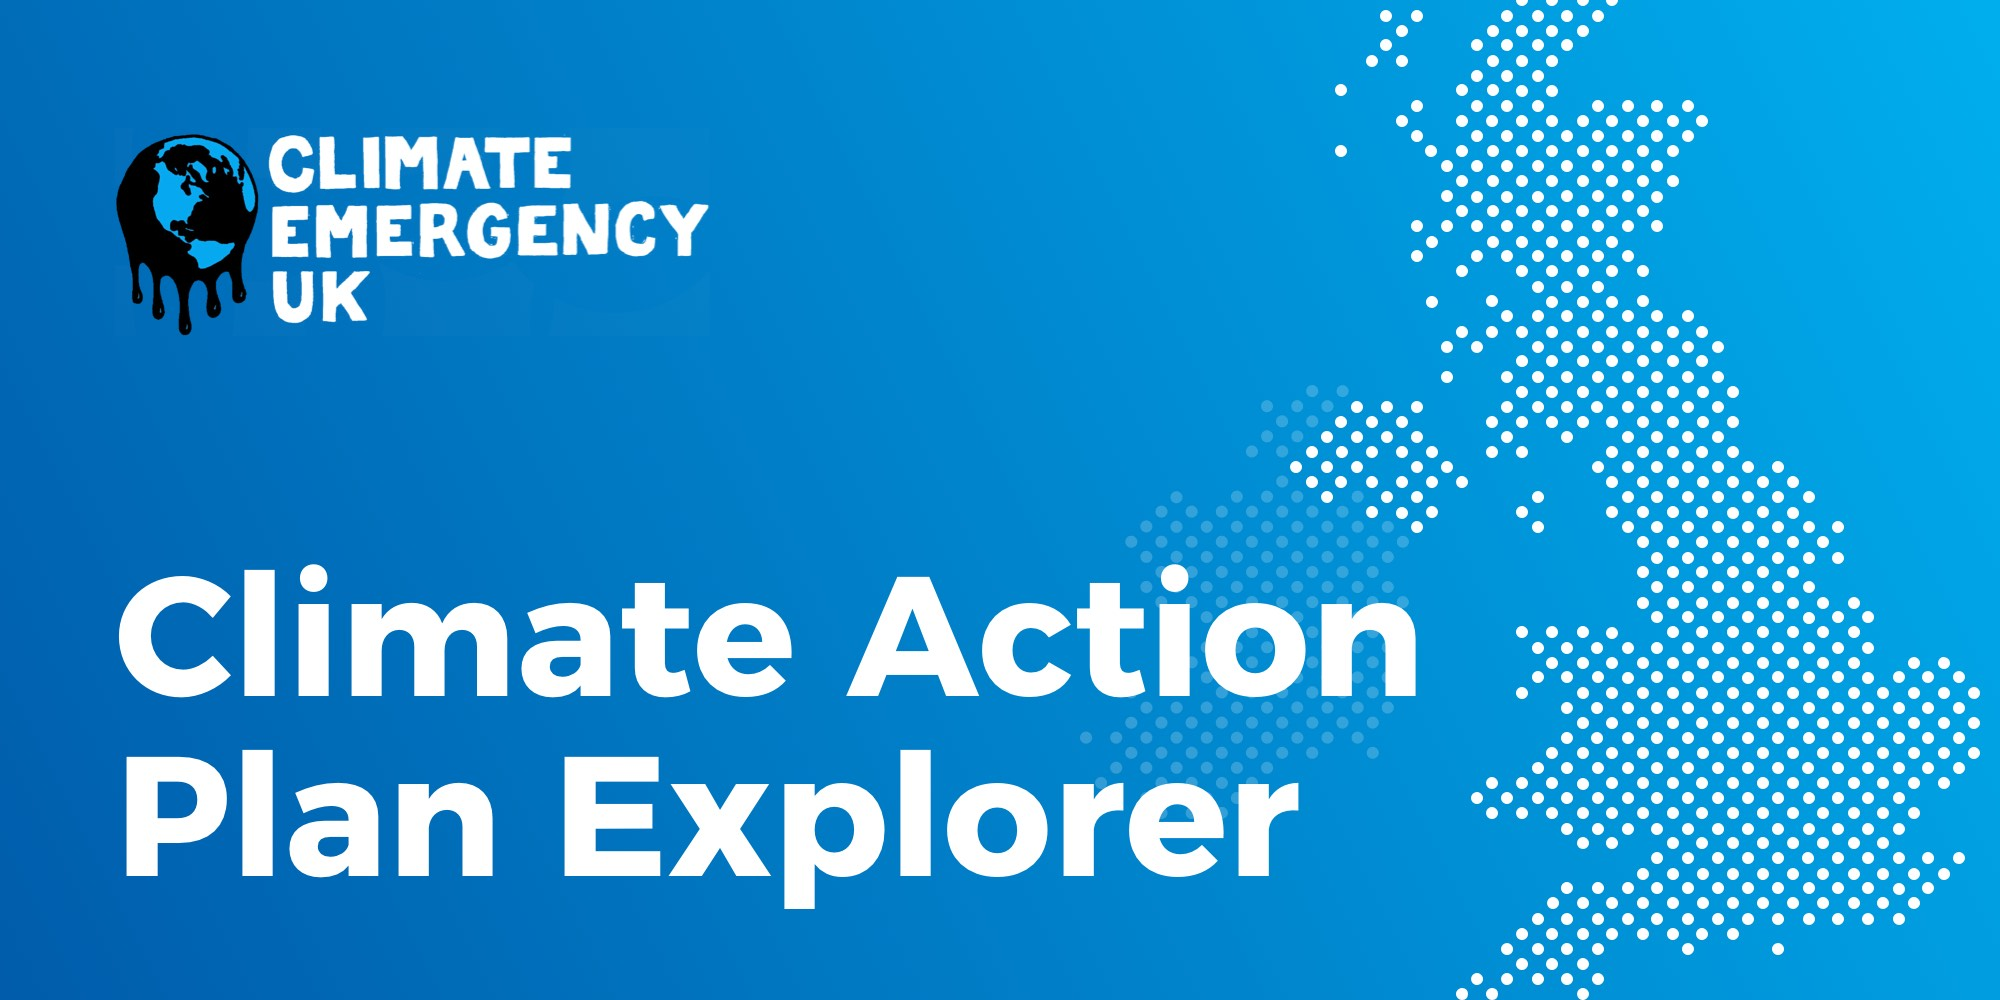
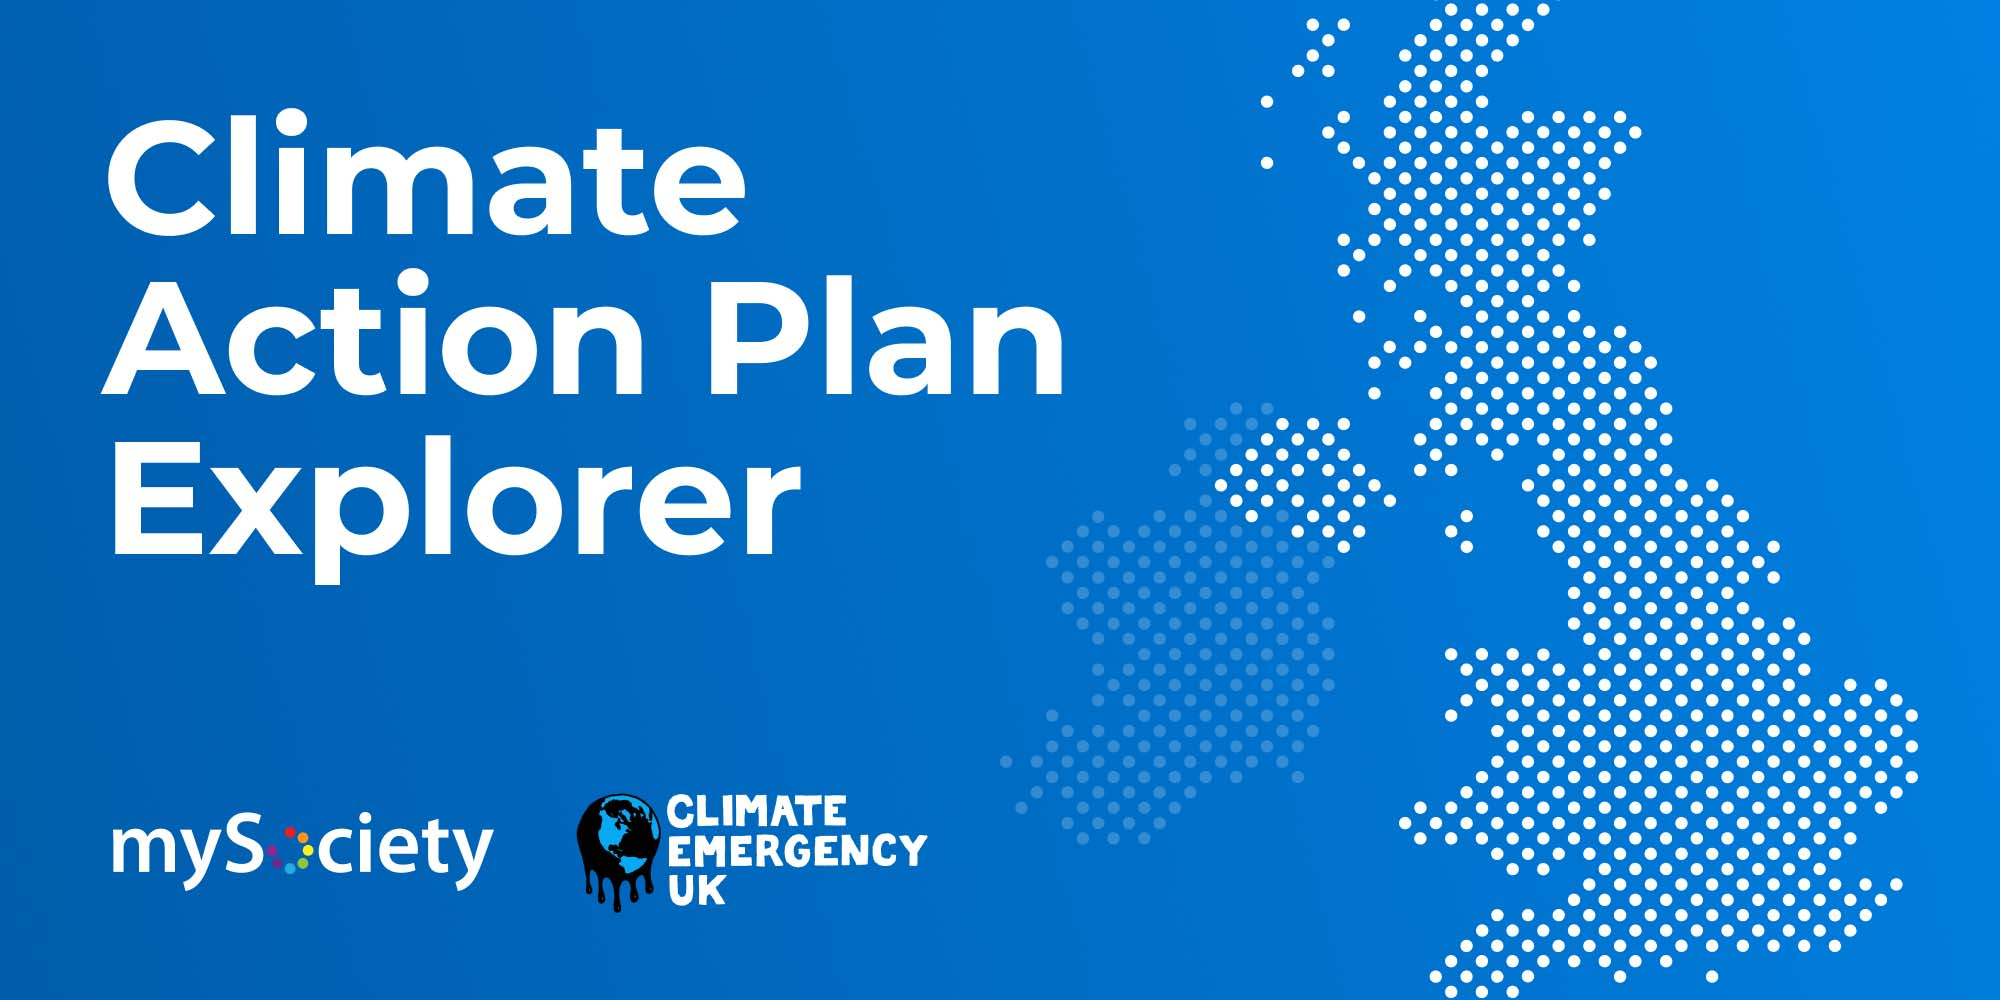
Rebrand as less of a CEUK project, more of a mySociety project
CEUK is focussing more on the Scorecards work, so it makes less and
less sense to have CAPE branded as part of their site.

This commit removes the CEUK header from the site, adds both mySociety
and CEUK logos to the social sharing image, adds a clearer description
of both organisations to the About page, and rearranges the main menu
as a result (splitting out Data and About once more).

Also moves all data-related stuff from /about to /about/data.

diff --git a/caps/templates/caps/about_data.html b/caps/templates/caps/about_data.html
@@ -1,4 +1,5 @@
 {% extends "caps/base.html" %}
+{% load static %}
 
 {% block content %}
 
@@ -12,34 +13,42 @@
     </div>
     <div class="col-md-8 offset-lg-1">
 
-        <h2 class="mb-4" id="feedback">Feedback</h2>
+        <h2 class="mb-4" id="sources">Data sources</h2>
 
-        <p>If you find this data useful we’d love to <a href="mailto:climate-councils@mysociety.org">hear from you</a> about how it was used. It’s helpful for guiding future work, providing examples to others and for talking to existing and current funders.</p>
+        <p>Much of our data is crowdsourced by an army of volunteers filling in Google spreadsheets. This is then combined with some standard data to enable it to be matched up across sources.</a>
 
-        <h2 class="mb-4" id="plans">Council plans</h2>
+        <p>Links to council climate action plans were crowdsourced <a href="https://docs.google.com/spreadsheets/d/1tEnjJRaWsdXtCkMwA25-ZZ8D75zAY6c2GOOeUchZsnU/edit">in this spreadsheet</a>. If you find a plan document that we’ve missed, <a href="https://docs.google.com/document/d/1oGFkzhZkTCfEBUeJIdMb9aOfuqPoCHkUMTJxROsRRow/edit">read our guide</a> on what we consider a climate action plan and how to add one to our spreadsheet.</p>
+
+        <div class="mt-4 d-flex flex-wrap">
+            <a class="mr-3 mb-3" href="https://climateemergency.uk">
+                <img src="{% static 'caps/img/logo-ceuk.png' %}" width="340" height="150" alt="Climate Emergency UK" class="rounded shadow-sm" style="height: 75px; width: auto;">
+            </a>
+        </div>
+
+        <p>Council climate emergency declarations and net zero commitments were largely collated by <a href="https://www.climateemergency.uk/">Climate Emergency UK</a> staff.</p>
+
+        <div class="mt-4 d-flex flex-wrap">
+            <a class="mr-3 mb-3" href="https://www.gov.uk/government/organisations/department-for-business-energy-and-industrial-strategy">
+                <img src="{% static 'caps/img/logo-beis.png' %}" width="260" height="150" alt="Department of Business, Energy &amp; Industrial Strategy" class="rounded shadow-sm" style="height: 75px; width: auto;">
+            </a>
+        </div>
+
+        <p>Local authority CO<sub>2</sub> emissions estimates are collated by <a href="https://www.gov.uk/government/statistics/uk-local-authority-and-regional-carbon-dioxide-emissions-national-statistics-2005-to-2019">the Department of Business, Energy &amp; Industrial Strategy</a>.</p>
+
+        <div class="mt-4 d-flex flex-wrap">
+            <a class="mr-3 mb-3" href="https://councilclimatescorecards.uk">
+                <img src="{% static 'caps/img/logo-scorecards.png' %}" width="380" height="150" alt="Council Climate Plan Scorecards" class="rounded shadow-sm" style="height: 75px; width: auto;">
+            </a>
+            <a class="mr-3 mb-3" href="https://www.mapolitical.com">
+                <img src="{% static 'caps/img/logo-mapolitical.png' %}" width="580" height="150" alt="Mapolitical" class="rounded shadow-sm" style="height: 75px; width: auto;">
+            </a>
+        </div>
+
+        <p>We make use of data from our <a href="https://councilclimatescorecards.uk">Council Climate Plan Scorecards</a> project, which was collected with the support of <a href="https://www.mapolitical.com/">Mapolitical</a>, who donated their UK Government Political Stakeholder data and Look-up API to help us communicate with local authority officers. <a href="https://councilclimatescorecards.uk/about/">Read more on the Council Climate Plan Scorecards site.</a></p>
+
+        <h2 class="mt-5 mb-4" id="plans">Download all plans</h2>
 
         <p>You can <a data-show-feedback-modal href="{{ MEDIA_URL }}data/plans/plans.zip">download a zip file of all the documents</a>. This includes all the documents we've found including Climate Action Plans, Climate strategies, pre plans etc. As well as the PDFs, or HTML pages, of the plans, this includes a CSV file (plans.csv) with details and sources for all the included files, along with information like GSS codes to enable linking to other data. The CSV file is available separately, see below for details.</p>
-
-        <h2 class="mt-5 mb-4" id="similarity">Similar councils</h2>
-
-        <p>We have built on open datasets to provide comparisons between councils that are similar in a number of dimensions. You can <a href="https://www.mysociety.org/2022/01/13/new-in-cape-five-different-ways-of-finding-similar-councils/">read a detailed breakdown of how we calculated these dimensions on our blog</a>, but here’s a high-level summary:</p>
-
-        <table class="table my-4">
-          {% for comparison_type in comparison_types %}
-            <tr>
-                <th class="pt-4 pl-0">{{ comparison_type.name }}</th>
-                <td class="pt-4 pr-0">{{ comparison_type.markdown_desc|safe }}</td>
-            </tr>
-          {% endfor %}
-        </table>
-
-        <h2 class="mt-5 mb-4" id="projects">Emissions reduction projects</h2>
-
-        <p>We are able to display emissions reduction projects reported by Scottish local authorities, thanks to the ‘<a href="https://www.legislation.gov.uk/ssi/2015/347/contents/made">Climate Change (Duties of Public Bodies; Reporting Requirements) (Scotland) Order 2015</a>’ which requires them to submit reports on their climate actions to the <a href="https://sustainablescotlandnetwork.org/reports">Sustainable Scotland Network website</a> each year.</p>
-
-        <p>We automatically collect these reports, extract information about the local authorities’ emissions reduction projects, and display them in <a href="{% url 'council_projects' %}">a more accessible, interactive format, here</a>.</p>
-
-        <p>Sadly local authorities in England, Wales, and Northern Ireland have no corresponding reporting requirement, so data is unavailable for them.</p>
 
         <h2 class="mt-5 mb-4" id="api">API</h2>
 
@@ -86,12 +95,34 @@
             <li><b>comments</b></li>
         </ul>
 
-        <p>Full explanations of the data can be found in the <a href="https://sustainablescotlandnetwork.org/uploads/store/mediaupload/1592/file/CC%20Reporting%20Master%20Guidance%202021%2005.10.2021.pdf">guidance on the Sustainable Scotland Network site</a>.</p>
-
-
         <h2 class="mt-5 mb-4" id="licensing">Licensing</h2>
 
         <p>The API data and CSV files are licensed under a <a href="https://creativecommons.org/licenses/by/4.0/">Creative Commons Attribution 4.0 International License</a>. The ZIP file is unlicensed as it contains work issued by local authorities under many licenses.</p>
+
+        <h2 class="mt-5 mb-4" id="similarity">Similar councils</h2>
+
+        <p>We have built on open datasets to provide comparisons between councils that are similar in a number of dimensions. You can <a href="https://www.mysociety.org/2022/01/13/new-in-cape-five-different-ways-of-finding-similar-councils/">read a detailed breakdown of how we calculated these dimensions on our blog</a>, but here’s a high-level summary:</p>
+
+        <table class="table my-4">
+          {% for comparison_type in comparison_types %}
+            <tr>
+                <th scope="row" class="pt-4 pl-0">{{ comparison_type.name }}</th>
+                <td class="pt-4 pr-0">{{ comparison_type.markdown_desc|safe }}</td>
+            </tr>
+          {% endfor %}
+        </table>
+
+        <h2 class="mt-5 mb-4" id="projects">Emissions reduction projects</h2>
+
+        <p>We are able to display emissions reduction projects reported by Scottish local authorities, thanks to the ‘<a href="https://www.legislation.gov.uk/ssi/2015/347/contents/made">Climate Change (Duties of Public Bodies; Reporting Requirements) (Scotland) Order 2015</a>’ which requires them to submit reports on their climate actions to the <a href="https://sustainablescotlandnetwork.org/reports">Sustainable Scotland Network website</a> each year.</p>
+
+        <p>We automatically collect these reports, extract information about the local authorities’ emissions reduction projects, and display them in <a href="{% url 'council_projects' %}">a more accessible, interactive format, here</a>.</p>
+
+        <p>Sadly local authorities in England, Wales, and Northern Ireland have no corresponding reporting requirement, so data is unavailable for them.</p>
+
+        <h2 class="mt-5 mb-4" id="feedback">Feedback</h2>
+
+        <p>If you find this data useful we’d love to <a href="mailto:climate-councils@mysociety.org">hear from you</a> about how it was used. It’s helpful for guiding future work, providing examples to others and for talking to existing and current funders.</p>
 
     </div>
 </div>

diff --git a/caps/templates/caps/about.html b/caps/templates/caps/about.html
@@ -13,50 +13,42 @@
     </div>
     <div class="col-md-8 offset-lg-1">
 
-        <p>The <strong>Climate Action Plan Explorer</strong> collects UK Council Climate Action Plans in a single database, alongside some data on area emissions estimates within the scope of influence of councils.</p>
+        <p>The <strong>Climate Action Plan Explorer</strong> collects UK Council Climate Action Plans in a single database, alongside some data on area emissions estimates within the scope of influence of councils. It allows anyone to quickly and easily find out if their council has a plan, and put those plans into context.</p>
 
-        <p>It’s being developed by <a href="https://www.climateemergency.uk/">Climate Emergency UK</a> and <a href="https://www.mysociety.org">mySociety</a>, with input from a range of council climate officers, climate specialists, researchers, and journalists. We hope that it will soon allow anyone to quickly and easily find out if their council has a plan, and put those plans into context.</p>
+        <p>It was started by <a href="https://www.climateemergency.uk/">Climate Emergency UK</a> and <a href="https://www.mysociety.org">mySociety</a>, and is still under active development with input from council climate officers, climate specialists, researchers, and journalists.</p>
 
         <p class="mt-4"><a class="d-inline-flex align-items-center" href="https://www.mysociety.org/2020/11/06/making-it-easier-to-explore-council-climate-action-plans/">
             Read more about the project background.
             {% include 'caps/icons/chevron-right.html' with classes='ml-1' role='presentation' %}
         </a></p>
 
-        <h2 class="mt-5 mb-4" id="sources">Data sources</h2>
+        <h2 class="mt-5 mb-2 d-flex flex-wrap" id="mysociety">
+            <a class="mr-3 mb-3" href="https://www.mysociety.org">
+                <img src="{% static 'caps/img/logo-mysociety.png' %}" width="460" height="150" alt="mySociety" class="rounded shadow-sm" style="height: 75px; width: auto;">
+            </a>
+        </h2>
 
-        <div class="mt-4 d-flex flex-wrap">
+        <p><strong>mySociety</strong> is a not-for-profit social enterprise, based in the UK but working with partners internationally. Their technology, research and data are used by individual citizens, journalists, and civil society in over 40 countries around the world.</p>
+
+        <p>Their UK services — like <a href="https://www.fixmystreet.com">FixMyStreet</a>, <a href="https://www.theyworkforyou.com">TheyWorkForYou</a>, <a href="https://www.whatdotheyknow.com">WhatDoTheyKnow</a>, and <a href="https://www.writetothem.com">WriteToThem</a> — are used by millions of people every year, to interact with local government, and hold decision-makers to account. And their climate programme is exploring how similar digital services could reduce the emissions within the influence of local authorities.</p>
+
+        <p class="mt-4"><a class="d-inline-flex align-items-center" href="https://www.mysociety.org/climate/">
+            Read more about mySociety’s climate programme
+            {% include 'caps/icons/chevron-right.html' with classes='ml-1' role='presentation' %}
+        </a>
+
+        <h2 class="mt-5 mb-2 d-flex flex-wrap" id="ceuk">
             <a class="mr-3 mb-3" href="https://climateemergency.uk">
                 <img src="{% static 'caps/img/logo-ceuk.png' %}" width="340" height="150" alt="Climate Emergency UK" class="rounded shadow-sm" style="height: 75px; width: auto;">
             </a>
-        </div>
+        </h2>
 
-        <p>Much of our data is crowdsourced by an army of volunteers filling in Google spreadsheets. This is then combined with some standard data to enable it to be matched up across sources.</a>
+        <p><strong>Climate Emergency UK</strong> aims to inspire and organise action to respond to the climate and ecological emergency. Their not-for-profit work supports local authorities in creating climate action plans, by providing accessible information about best practice and building a network where local authorities, activists, NGOs, business and local communities can work together.</p>
 
-        <p>Links to council climate action plans were crowdsourced <a href="https://docs.google.com/spreadsheets/d/1tEnjJRaWsdXtCkMwA25-ZZ8D75zAY6c2GOOeUchZsnU/edit">in this spreadsheet</a>. If you find a plan document that we’ve missed, <a href="https://docs.google.com/document/d/1oGFkzhZkTCfEBUeJIdMb9aOfuqPoCHkUMTJxROsRRow/edit">read our guide</a> on what we consider a climate action plan and how to add one to our spreadsheet.</p>
+        <p>Their <a href="https://www.climateemergency.uk/local-authority-checklist/">Climate Action Plan Checklist</a> provides local authorities with a step-by-step guide for creating, presenting, and engaging on climate action plans. And their incredibly ambitious <a href="https://councilclimatescorecards.uk/">Council Climate Plan Scorecards</a> project continues to assess the quality of local authorities’ climate action plans.</p>
 
-        <p>Council climate emergency declarations and net zero commitments were largely collated by <a href="https://www.climateemergency.uk/">Climate Emergency UK</a> staff.</p>
-
-        <div class="mt-4 d-flex flex-wrap">
-            <a class="mr-3 mb-3" href="https://www.gov.uk/government/organisations/department-for-business-energy-and-industrial-strategy">
-                <img src="{% static 'caps/img/logo-beis.png' %}" width="260" height="150" alt="Department of Business, Energy &amp; Industrial Strategy" class="rounded shadow-sm" style="height: 75px; width: auto;">
-            </a>
-        </div>
-
-        <p>Local authority CO<sub>2</sub> emissions estimates are collated by <a href="https://www.gov.uk/government/statistics/uk-local-authority-and-regional-carbon-dioxide-emissions-national-statistics-2005-to-2019">the Department of Business, Energy &amp; Industrial Strategy</a>.</p>
-
-        <div class="mt-4 d-flex flex-wrap">
-            <a class="mr-3 mb-3" href="https://councilclimatescorecards.uk">
-                <img src="{% static 'caps/img/logo-scorecards.png' %}" width="380" height="150" alt="Council Climate Plan Scorecards" class="rounded shadow-sm" style="height: 75px; width: auto;">
-            </a>
-            <a class="mr-3 mb-3" href="https://www.mapolitical.com">
-                <img src="{% static 'caps/img/logo-mapolitical.png' %}" width="580" height="150" alt="Mapolitical" class="rounded shadow-sm" style="height: 75px; width: auto;">
-            </a>
-        </div>
-
-        <p>We make use of data from our <a href="https://councilclimatescorecards.uk">Council Climate Plan Scorecards</a> project, which was collected with the support of <a href="https://www.mapolitical.com/">Mapolitical</a>, who donated their UK Government Political Stakeholder data and Look-up API to help us communicate with local authority officers. <a href="https://councilclimatescorecards.uk/about/">Read more on the Council Climate Plan Scorecards site.</a></p>
-
-        <p class="mt-4"><a class="d-inline-flex align-items-center" href="{% url 'about_data' %}">
-            Read more about how to understand and re-use our data.
+        <p class="mt-4"><a class="d-inline-flex align-items-center" href="https://www.climateemergency.uk/">
+            Read more about Climate Emergency UK’s work
             {% include 'caps/icons/chevron-right.html' with classes='ml-1' role='presentation' %}
         </a>
 

diff --git a/caps/templates/caps/includes/about-subnav.html b/caps/templates/caps/includes/about-subnav.html
@@ -3,7 +3,10 @@
         <a class="nav-link h6 pl-0 mb-0" href="{% url "about" %}">About</a>
         <ul class="nav flex-column py-2 border-top my-2">
             <li class="nav-item">
-                <a class="nav-link" href="{% url "about" %}#sources">Data sources</a>
+                <a class="nav-link" href="{% url "about" %}#mysociety">mySociety</a>
+            </li>
+            <li class="nav-item">
+                <a class="nav-link" href="{% url "about" %}#ceuk">Climate Emergency UK</a>
             </li>
             <li class="nav-item">
                 <a class="nav-link" href="{% url "about" %}#feedback">Feedback</a>
@@ -11,16 +14,13 @@
         </ul>
     </li>
     <li class="nav-item mt-3">
-        <a class="nav-link h6 pl-0 mb-0" href="{% url "about_data" %}">Our data</a>
+        <a class="nav-link h6 pl-0 mb-0" href="{% url "about_data" %}">Data</a>
         <ul class="nav flex-column py-2 border-top my-2">
             <li class="nav-item">
-                <a class="nav-link" href="{% url "about_data" %}#plans">Council plans</a>
+                <a class="nav-link" href="{% url "about_data" %}#sources">Data sources</a>
             </li>
             <li class="nav-item">
-                <a class="nav-link" href="{% url "about_data" %}#similarity">Similar councils</a>
-            </li>
-            <li class="nav-item">
-                <a class="nav-link" href="{% url "about_data" %}#projects">Emissions reduction projects</a>
+                <a class="nav-link" href="{% url "about_data" %}#plans">Download all plans</a>
             </li>
             <li class="nav-item">
                 <a class="nav-link" href="{% url "about_data" %}#api">API</a>
@@ -30,6 +30,12 @@
             </li>
             <li class="nav-item">
                 <a class="nav-link" href="{% url "about_data" %}#licensing">Licensing</a>
+            </li>
+            <li class="nav-item">
+                <a class="nav-link" href="{% url "about_data" %}#similarity">Similar councils</a>
+            </li>
+            <li class="nav-item">
+                <a class="nav-link" href="{% url "about_data" %}#projects">Emissions reduction projects</a>
             </li>
         </ul>
     </li>

diff --git a/caps/templates/caps/includes/site-header.html b/caps/templates/caps/includes/site-header.html
@@ -1,17 +1,19 @@
 <div class="site-header">
-    <nav class="navbar navbar-expand-md navbar-light bg-white">
-        <a class="navbar-brand" href="https://www.climateemergency.uk">Declare a Climate Emergency</a>
-        <button class="navbar-toggler" type="button" data-toggle="collapse" data-target="#primaryNav" aria-controls="primaryNav" aria-expanded="false" aria-label="Toggle primary navigation">
+    <nav class="navbar navbar-expand-md navbar-dark">
+        <a class="navbar-brand" href="{% url 'home' %}">Climate Action Plan Explorer</a>
+        <button class="navbar-toggler" type="button" data-toggle="collapse" data-target="#primaryNav" aria-controls="primaryNav" aria-expanded="false" aria-label="Toggle navigation">
             <span class="navbar-toggler-icon"></span>
         </button>
         <div class="collapse navbar-collapse" id="primaryNav">
             <div class="navbar-nav">
-                <a class="nav-link" href="https://www.climateemergency.uk/about-us/">About Us</a>
-                <a class="nav-link" href="https://www.climateemergency.uk/events/">Events</a>
-                <a class="nav-link" href="https://www.climateemergency.uk/blog/map-of-local-council-declarations/">Map of Declarations</a>
-                <a class="nav-link" href="https://www.climateemergency.uk/local-authority-checklist/">Climate Action Plan Checklist</a>
-                <a class="nav-link" href="{% url 'council_list' %}">All Councils</a>
+                <a class="nav-link" href="{% url 'council_list' %}">Councils</a>
+                <a class="nav-link" href="{% url 'tag_list' %}">Browse by feature</a>
+                <a class="nav-link" href="{% url 'council_projects' %}">Emissions reduction</a>
+                <a class="nav-link" href="{% url 'about_data' %}">Data</a>
+                <a class="nav-link" href="{% url 'about' %}">About</a>
             </div>
         </div>
     </nav>
 </div>
+
+

diff --git a/caps/static/caps/scss/site-header.scss b/caps/static/caps/scss/site-header.scss
@@ -46,30 +46,6 @@
 }
 
 .site-header {
-    .navbar {
-        padding: 1rem;
-    }
-
-    .navbar-brand {
-        flex-shrink: 0;
-        display: inline-block;
-        height: 0;
-        padding-top: 40px;
-        width: 114px;
-        overflow: hidden;
-        @include img-retina('../img/site-logo.png', '../img/site-logo@2x.png', 114px, 40px);
-        background-repeat: no-repeat;
-        background-position: 50% 50%;
-    }
-
-    .nav-link {
-        text-transform: uppercase;
-        white-space: nowrap;
-        font-size: 1em * (14/16);
-    }
-}
-
-.site-subheader {
     background: $color-ceuk-red;
 
     .page-blue & {

diff --git a/caps/templates/caps/base.html b/caps/templates/caps/base.html
@@ -46,8 +46,6 @@
 
     {% include 'caps/includes/site-header.html' %}
 
-    {% include 'caps/includes/site-subheader.html' %}
-
     {% block before_content %}{% endblock %}
 
     <div class="site-content">
